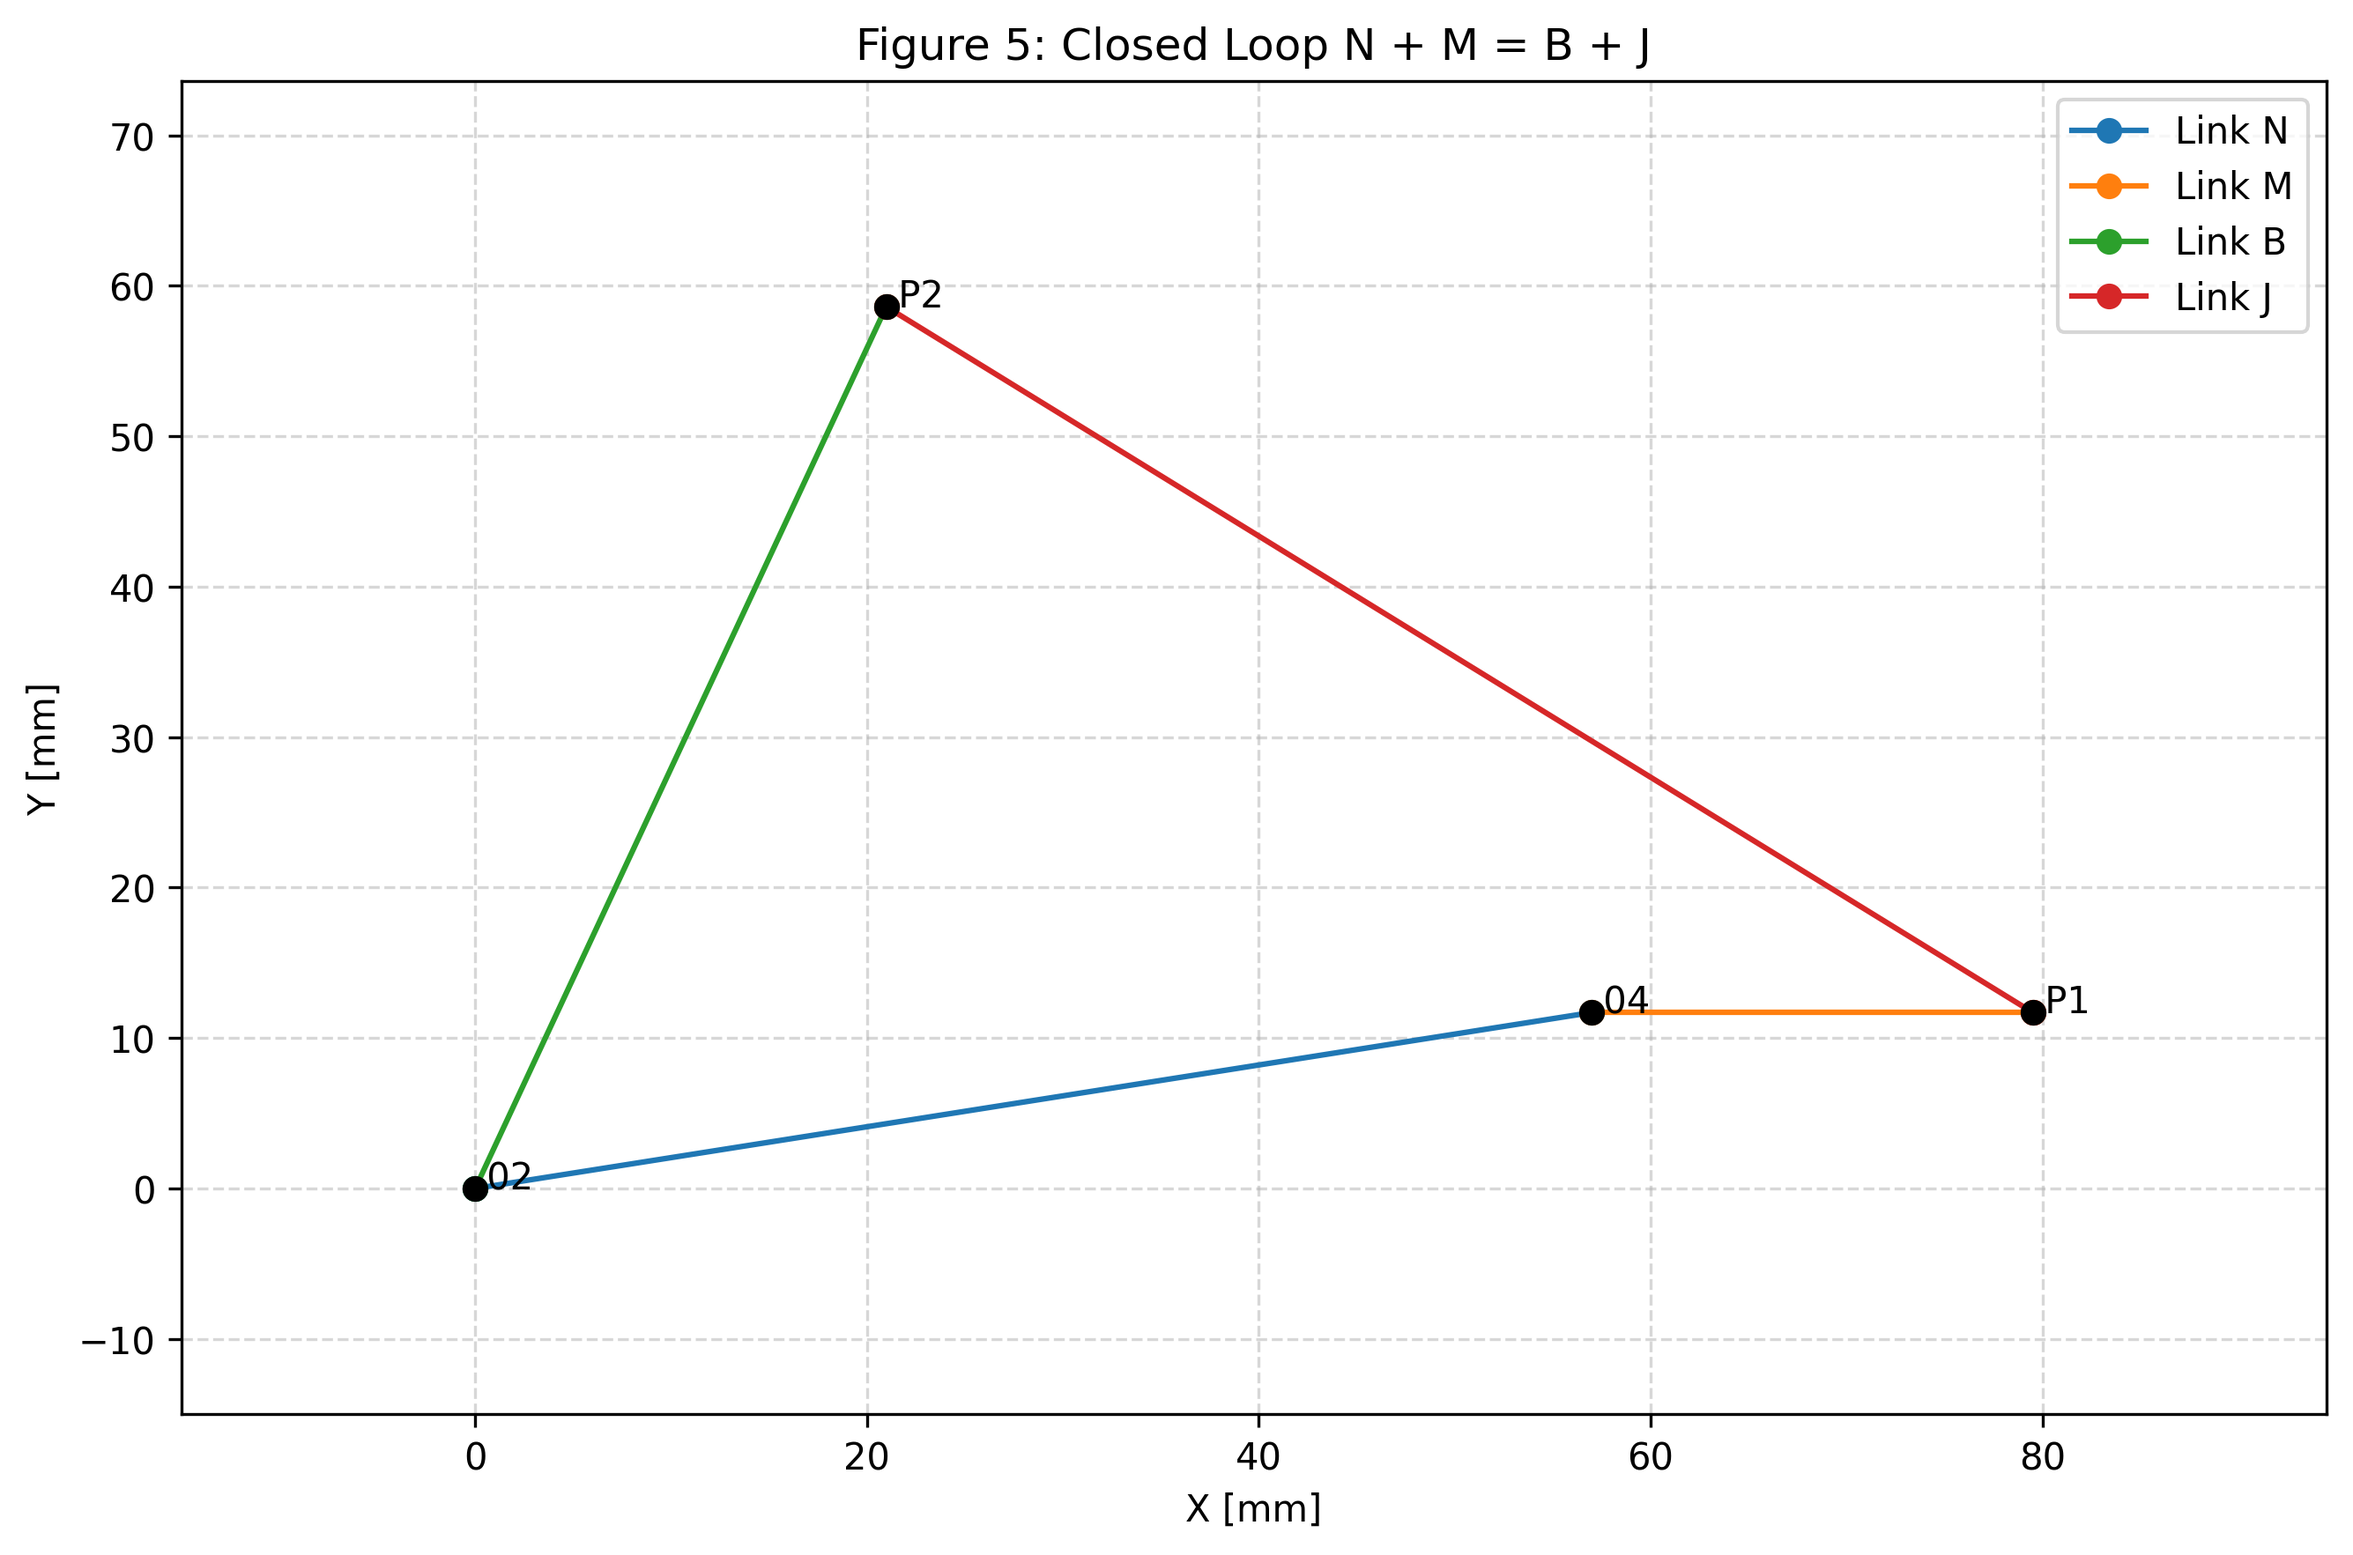
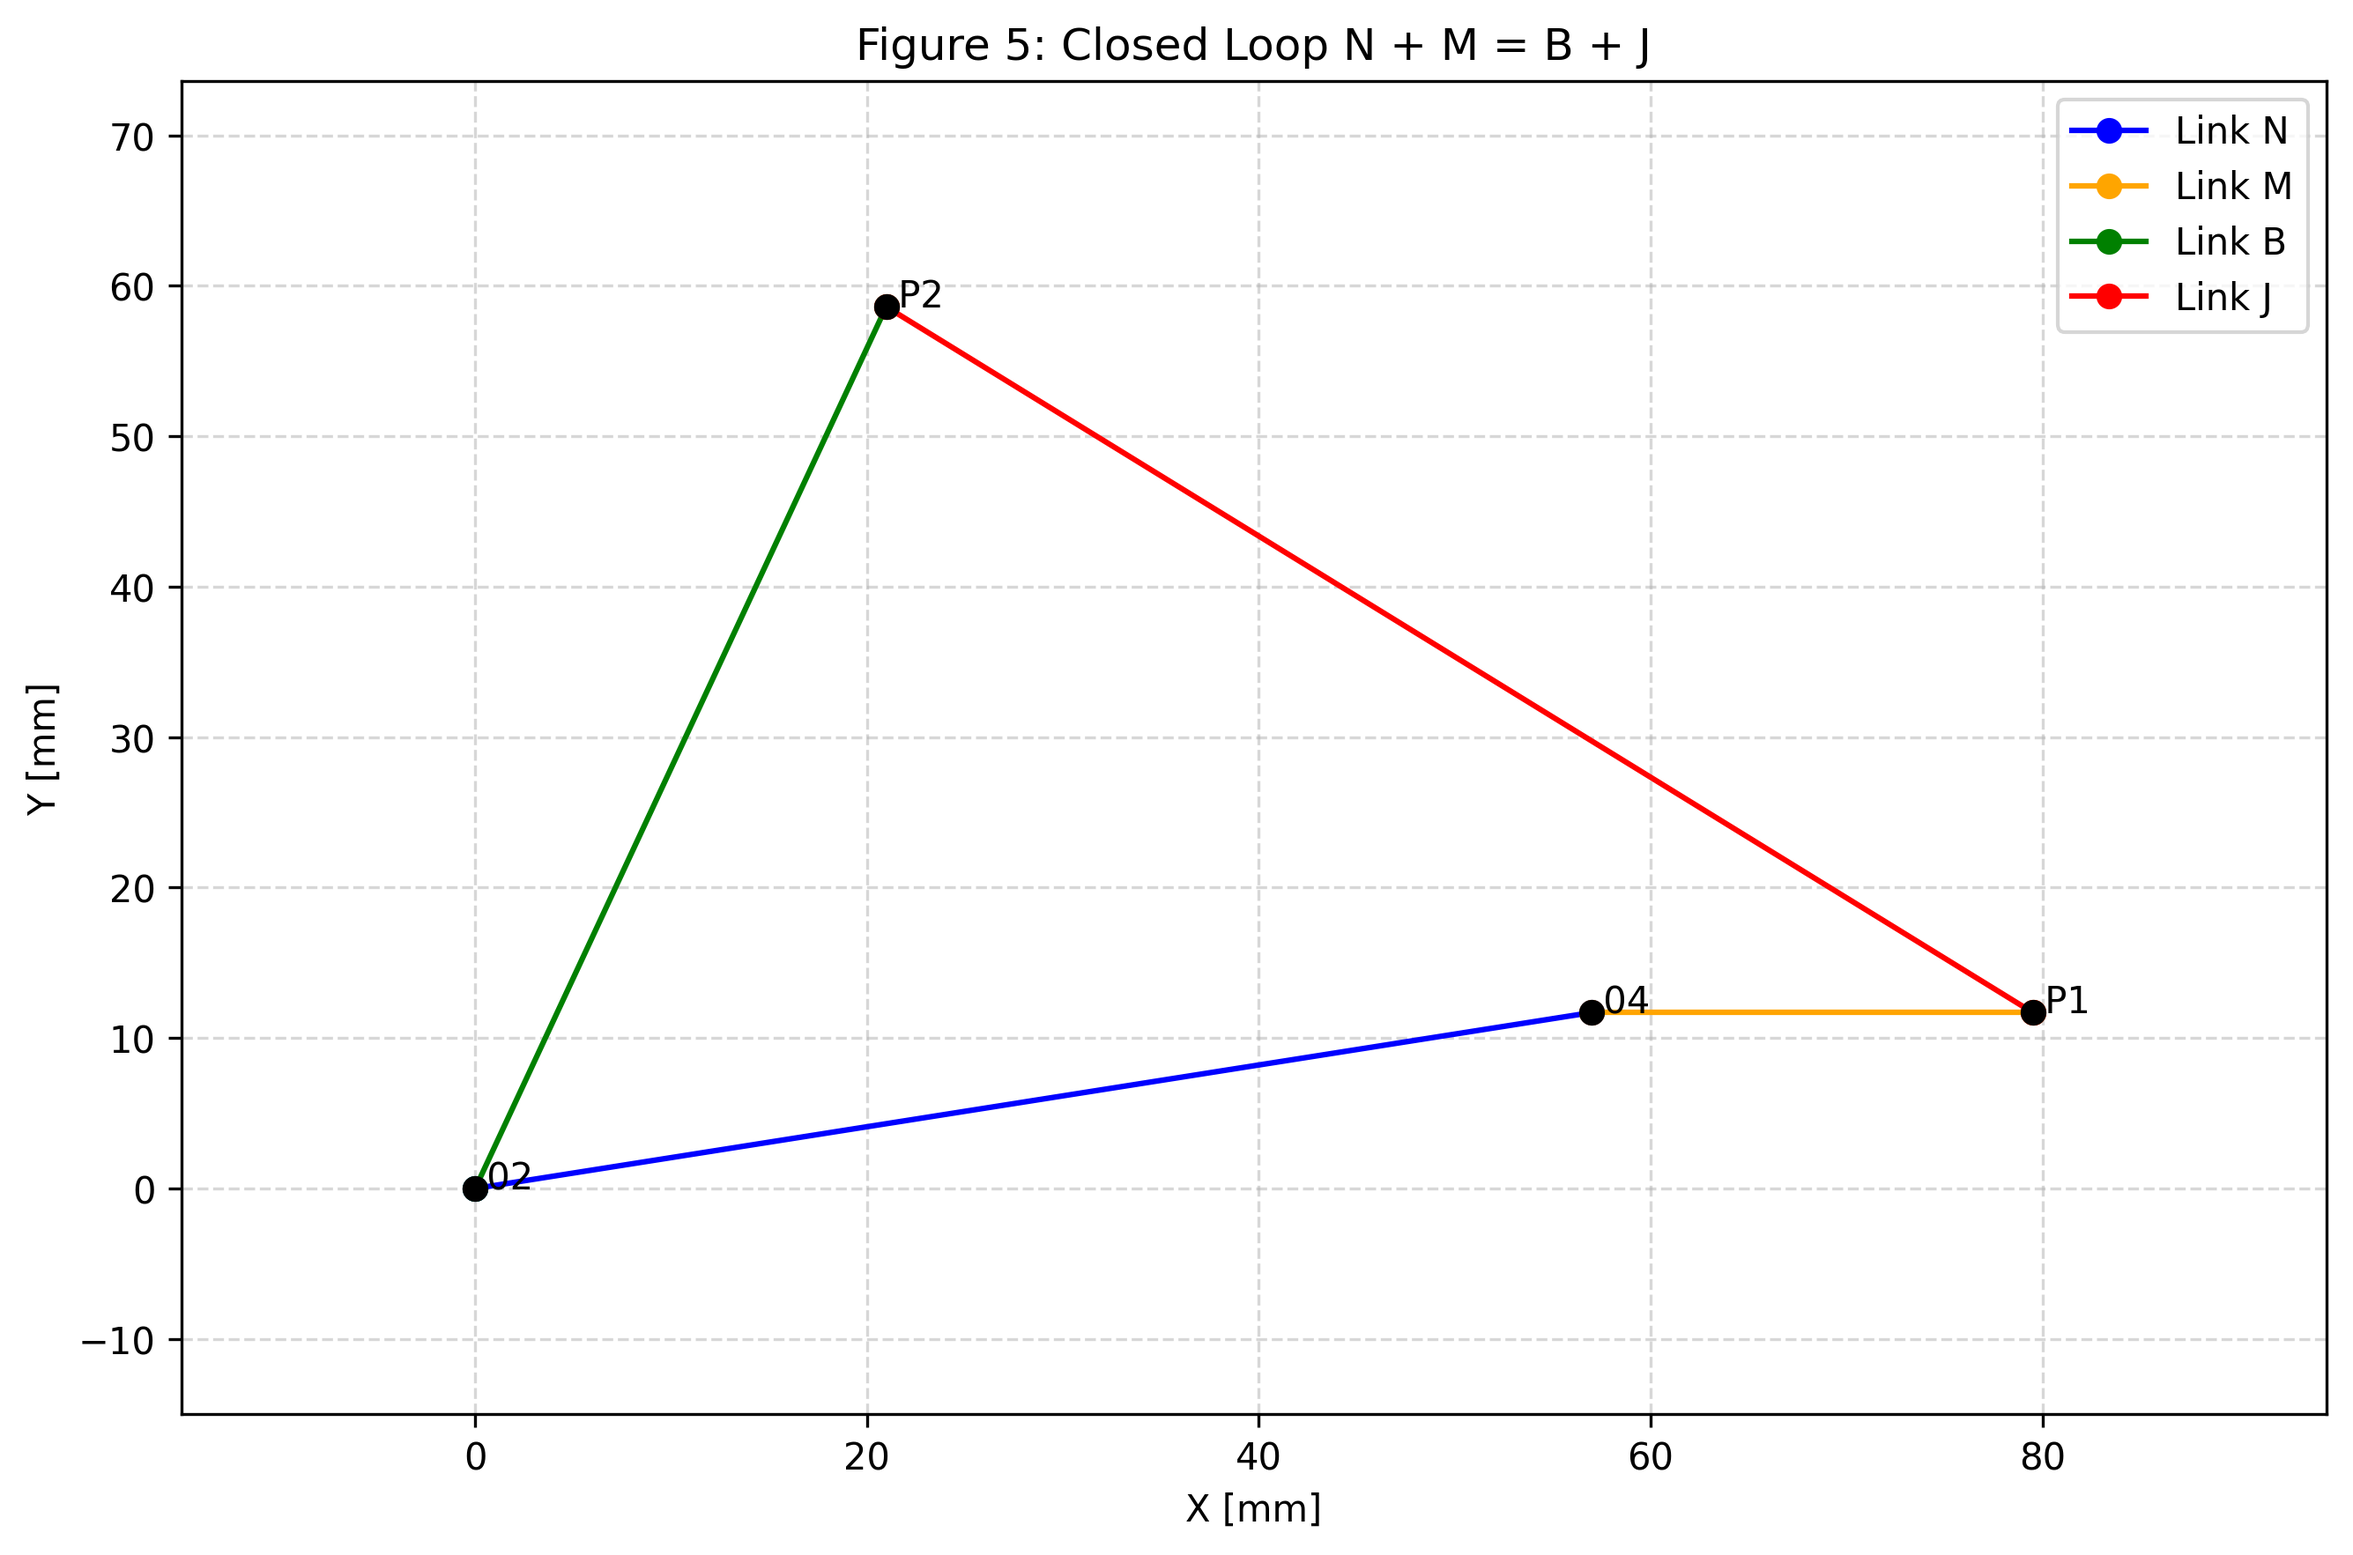
Updated coloring for better clarity

diff --git a/lib/_Plot.py b/lib/_Plot.py
@@ -70,7 +70,7 @@ def draw_point(axes : pl.axes, point : np.ndarray, label : str) -> None:
     axes.text(point[0], point[1], f" {label}", fontsize=10)
 
 
-def draw_link(axes : pl.axes, point_1 : np.ndarray, point_2 : np.ndarray, label : str) -> None:
+def draw_link(axes : pl.axes, point_1 : np.ndarray, point_2 : np.ndarray, label : str, color : str) -> None:
     """
     Draw a link between two points on the given axes.
     
@@ -79,12 +79,13 @@ def draw_link(axes : pl.axes, point_1 : np.ndarray, point_2 : np.ndarray, label 
         point_1 (np.ndarray) : The (x, y) coordinates of the first point.
         point_2 (np.ndarray) : The (x, y) coordinates of the second point.
         label (str) : The label for the link to be displayed next to it on the plot.
+        color (str) : The color to use for the link (e.g., 'blue', 'red', etc.).
     
     Returns:
         None
     """
     # Plot the link as a line between the two points
-    axes.plot([point_1[0], point_2[0]], [point_1[1], point_2[1]], marker='o', label=label)
+    axes.plot([point_1[0], point_2[0]], [point_1[1], point_2[1]], marker='o', color=color, label=label)
 
 
 def set_axes_limits(axes : pl.axes, points : list[np.ndarray], padding : float = 10.0) -> None:
@@ -131,9 +132,9 @@ def plot_ground_link(O2 : np.ndarray, O4 : np.ndarray, P1 : np.ndarray) -> pl.fi
     ground_axes.set_ylabel("Y [mm]")
     
     # Draw Links
-    draw_link(ground_axes, O2, O4, "Link N")
-    draw_link(ground_axes, O4, P1, "Link M")
-    
+    draw_link(ground_axes, O2, O4, "Link N", color = "blue")
+    draw_link(ground_axes, O4, P1, "Link M", color = "orange")
+
     # Draw Points
     draw_point(ground_axes, O2, "02")
     draw_point(ground_axes, O4, "04")
@@ -177,11 +178,11 @@ def plot_p1_position(O2 : np.ndarray, O4 : np.ndarray, array_P1 : np.ndarray) ->
     draw_point(p1_position_axes, O4, "04")
     
     # Draw Crank Path
-    p1_position_axes.plot(array_P1[:, 0], array_P1[:, 1], label="Path P1")
+    p1_position_axes.plot(array_P1[:, 0], array_P1[:, 1], label="Path P1", color="purple")
     
     # Draw starting crank position
-    draw_link(p1_position_axes, O2, O4, "Link N")
-    draw_link(p1_position_axes, O4, array_P1[0], "Link M")
+    draw_link(p1_position_axes, O2, O4, "Link N", color = "cyan")
+    draw_link(p1_position_axes, O4, array_P1[0], "Link M", color = "orange")
     
     # Set axes limits based on point locations
     set_axes_limits(p1_position_axes, [O2, O4, *array_P1], padding=15.0)
@@ -284,10 +285,10 @@ def plot_nm_bj_figure(O2 : np.ndarray, O4 : np.ndarray, P1 : np.ndarray, P2 : np
     nm_bj_axes.set_ylabel("Y [mm]")
     
     # Draw Links
-    draw_link(nm_bj_axes, O2, O4, "Link N")
-    draw_link(nm_bj_axes, O4, P1, "Link M")
-    draw_link(nm_bj_axes, O2, P2, "Link B")
-    draw_link(nm_bj_axes, P1, P2, "Link J")
+    draw_link(nm_bj_axes, O2, O4, "Link N", color = "blue")
+    draw_link(nm_bj_axes, O4, P1, "Link M", color = "orange")
+    draw_link(nm_bj_axes, O2, P2, "Link B", color = "green")
+    draw_link(nm_bj_axes, P1, P2, "Link J", color = "red")
     
     # Draw Points
     draw_point(nm_bj_axes, O2, "02")
@@ -330,13 +331,14 @@ def plot_p2_position(O2 : np.ndarray, O4 : np.ndarray, array_P1 : np.ndarray, ar
     p2_position_axes.set_ylabel("Y [mm]")
     
     # Draw Path of P2
-    p2_position_axes.plot(array_P2[:, 0], array_P2[:, 1], label="Path P2")
+    p2_position_axes.plot(array_P2[:, 0], array_P2[:, 1], label="Path P2", color="purple")
     
     # Draw starting crank position
-    draw_link(p2_position_axes, O2, O4, "Link N")
-    draw_link(p2_position_axes, O4, array_P1[0], "Link M")
-    draw_link(p2_position_axes, O2, array_P2[0], "Link B")
-    draw_link(p2_position_axes, array_P1[0], array_P2[0], "Link J")
+    draw_link(p2_position_axes, O2, O4, "Link N", color = "cyan")
+    draw_link(p2_position_axes, O4, array_P1[0], "Link M", color = "orange")
+    draw_link(p2_position_axes, array_P1[0], array_P2[0], "Link J", color = "magenta")
+    draw_link(p2_position_axes, O2, array_P2[0], "Link B", color = "green")
+
     
     # Draw ground point and crank center
     draw_point(p2_position_axes, O2, "02")
@@ -377,7 +379,7 @@ def plot_p2_x_figure(theta_m : np.ndarray, array_P2 : np.ndarray) -> pl.figure:
     p2_x_axes.set_ylabel("X [mm]")
     
     # Plot X-coordinate of P2
-    p2_x_axes.plot(theta_m, array_P2[:, 0], label="X-coordinate of P2")
+    p2_x_axes.plot(theta_m, array_P2[:, 0], label="X P2")
     
     # Create Legend & Layout
     p2_x_axes.legend(loc = 'best')
@@ -409,7 +411,7 @@ def plot_p2_y_figure(theta_m : np.ndarray, array_P2 : np.ndarray) -> pl.figure:
     p2_y_axes.set_ylabel("Y [mm]")
     
     # Plot Y-coordinate of P2
-    p2_y_axes.plot(theta_m, array_P2[:, 1], label="Y-coordinate of P2")
+    p2_y_axes.plot(theta_m, array_P2[:, 1], label="Y P2")
     
     # Create Legend & Layout
     p2_y_axes.legend(loc = 'best')
@@ -417,7 +419,6 @@ def plot_p2_y_figure(theta_m : np.ndarray, array_P2 : np.ndarray) -> pl.figure:
     
     
     return p2_y_figure
-
 
 
 def function_name():
